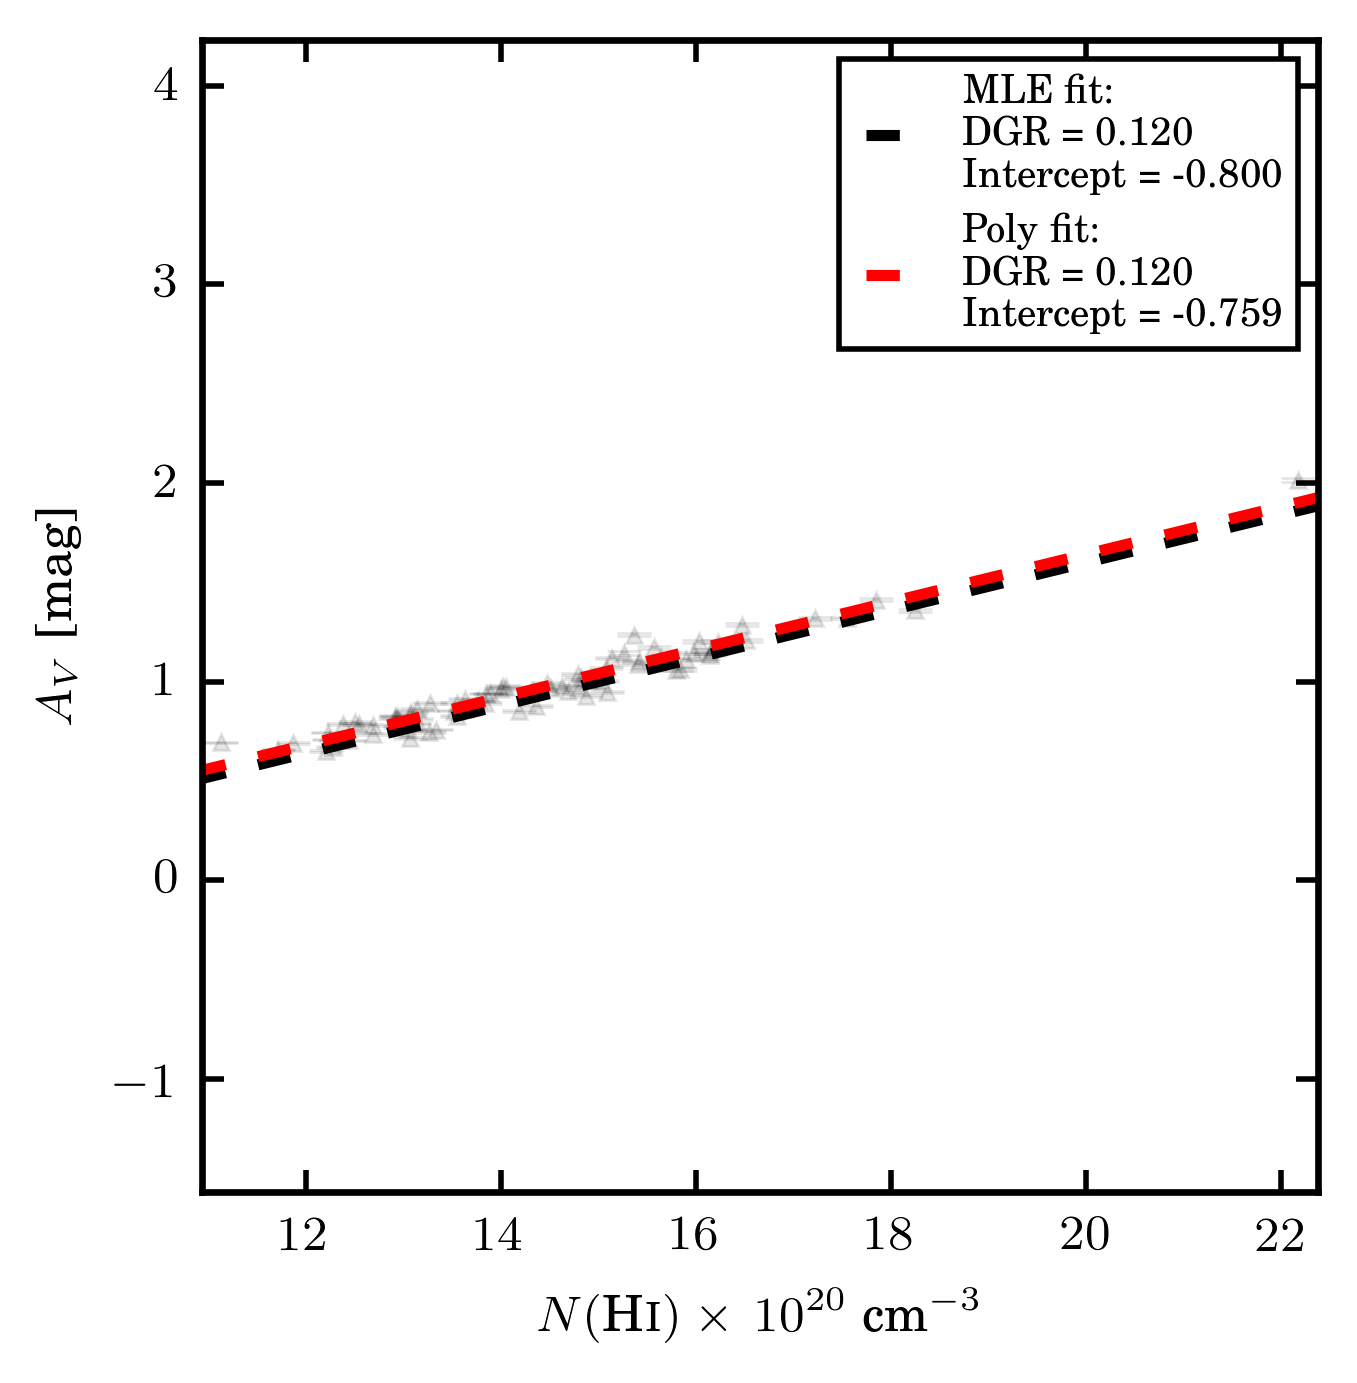
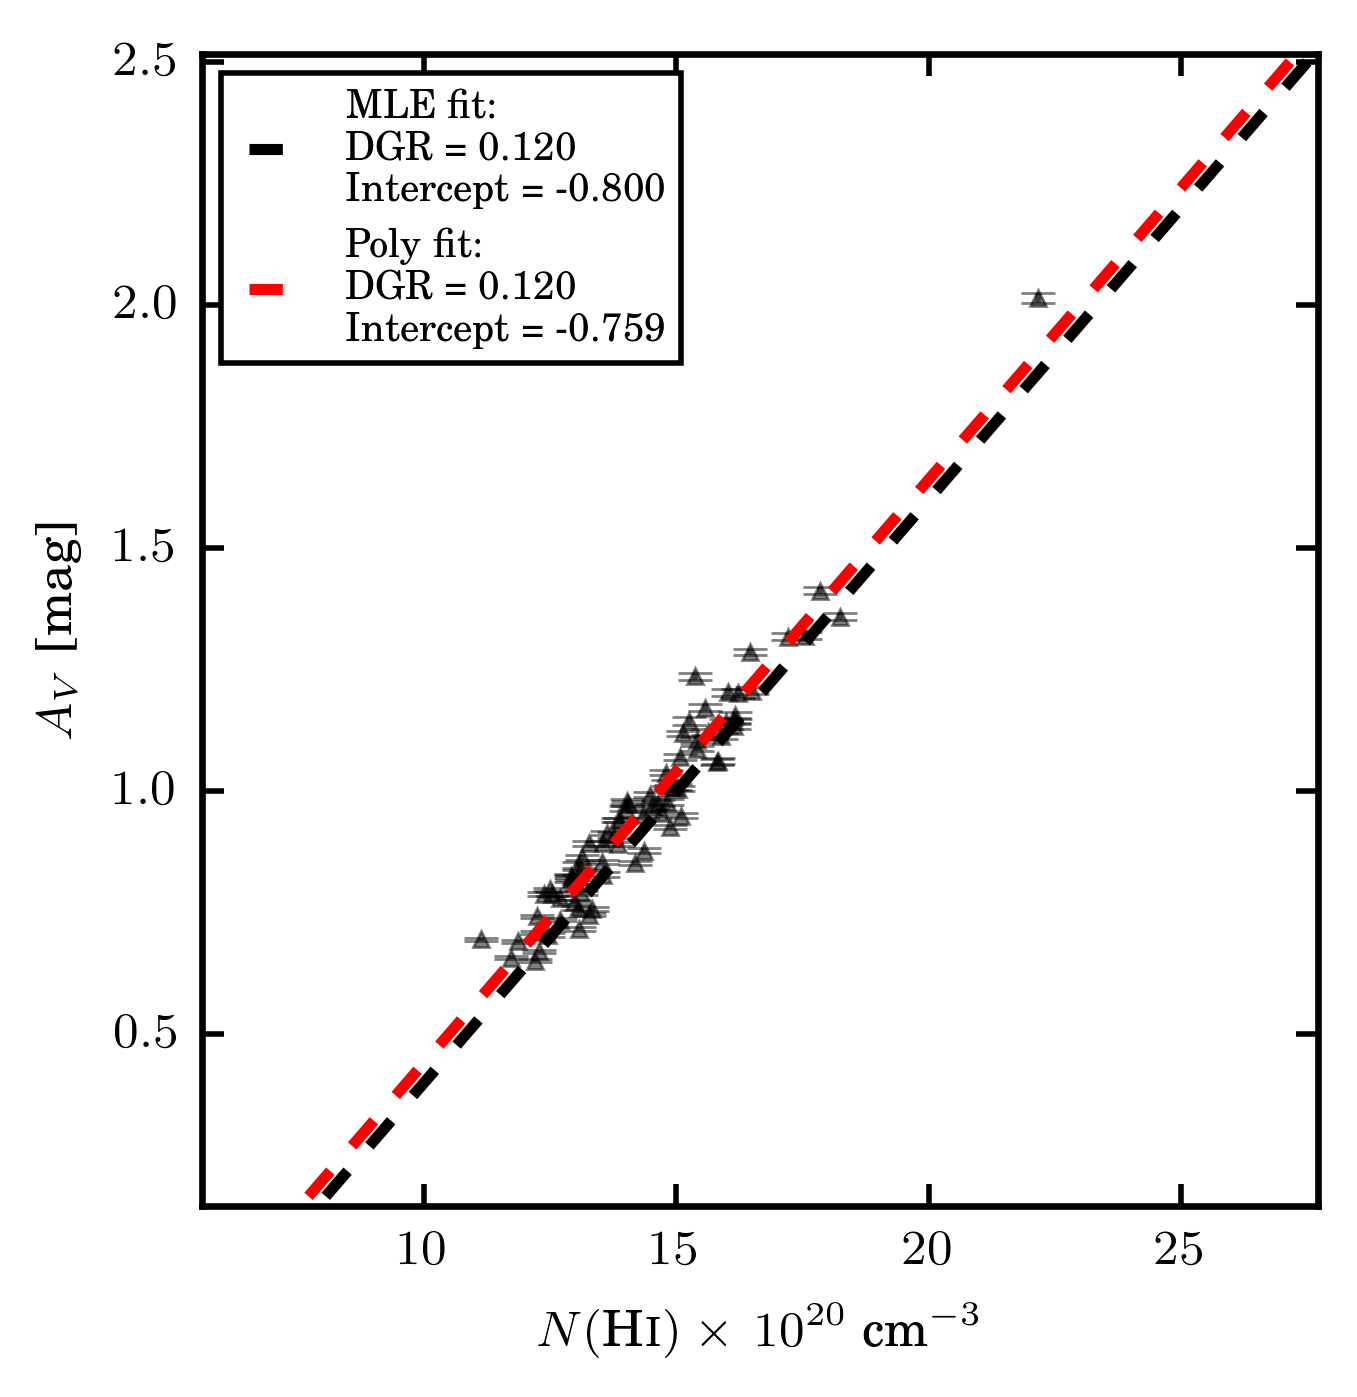
completed best post ever

diff --git a/images/2015-07-22/image_copy.py b/images/2015-07-22/image_copy.py
@@ -1,0 +1,24 @@
+#!/usr/bin/python
+
+import os
+
+images = [
+'/d/bip3/ezbc/taurus/figures/likelihood/taurus_planck_binned_coarseres_likelihood_w*',
+'/d/bip3/ezbc/taurus/figures/diagnostics/taurus_planck_binned_coarseres_av_vs_nhi*',
+'/d/bip3/ezbc/taurus/figures/diagnostics/taurus_planck_binned_coarseres_nh2_vs_nhi*',
+'/d/bip3/ezbc/perseus/figures/likelihood/perseus_planck_binned_coarseres_likelihood_w*',
+'/d/bip3/ezbc/perseus/figures/diagnostics/perseus_planck_binned_coarseres_av_vs_nhi*',
+'/d/bip3/ezbc/perseus/figures/diagnostics/perseus_planck_binned_coarseres_nh2_vs_nhi*',
+'/d/bip3/ezbc/perseus/figures/likelihood/perseus_lee12_binned_coarseres_likelihood_w*',
+'/d/bip3/ezbc/perseus/figures/diagnostics/perseus_lee12_binned_coarseres_av_vs_nhi*',
+'/d/bip3/ezbc/perseus/figures/diagnostics/perseus_lee12_binned_coarseres_nh2_vs_nhi*',
+'/d/bip3/ezbc/california/figures/likelihood/california_planck_binned_coarseres_likelihood_w*',
+'/d/bip3/ezbc/california/figures/diagnostics/california_planck_binned_coarseres_av_vs_nhi*',
+'/d/bip3/ezbc/california/figures/diagnostics/california_planck_binned_coarseres_nh2_vs_nhi*',
+        ]
+
+dest_dir = './'
+
+for image in images:
+    os.system('cp ' + image + ' ' + dest_dir)
+

diff --git a/_posts/2015-07-22-MLE-Testing.md b/_posts/2015-07-22-MLE-Testing.md
@@ -1,12 +1,90 @@
 ---
 layout: post
-title: Rescaling Variance of Binned Data
+title: Reevaluating the MLE, and Negative Intercepts
 author:
 category: research
 tags: Taurus-California-Perseus Residuals Masking
 comments: true
 use_math: true
 ---
+
+## Likelihoods
+
+The likelihood calculations discussed in the [previous
+post](/2015/07/21/Masking/) are incorrect. There was a bug related to masking
+NaNs in the HI cube. All figures below were calculated using these versions of
+[``cloud_analysis.py``](https://bitbucket.org/ezbc/scripts_and_logs/src/f7ec232922b90feee58d941b3959d32d1d7e6683/multicloud/analysis/clouds/cloud_analysis.py?at=master)
+and
+[``cloudpy.py``](https://bitbucket.org/ezbc/python_modules/src/4122edf55decca4a91abac1cce6a27e45e005268/cloudpy.py?at=master).
+
+The likelihoods do indeed require a rescaling of the error after the first MLE
+calculation, and recalculating the MLE with the rescaled errors. Below are the
+results.
+
+***
+
+<div align="center"> Perseus, Lee+12 </div>
+
+<img src="/images/2015-07-22/perseus_lee12_binned_coarseres_likelihood_wd.png" style="float: left; width: 48%; margin-right: 1%; margin-bottom: 0.5em;"/>
+
+<img src="/images/2015-07-22/perseus_lee12_binned_coarseres_likelihood_wi.png" style="float: left; width: 48%; margin-right: 1%; margin-bottom: 0.5em;"/>
+
+Figure 1. - Perseus likelihoods with Lee+12 $$A_V$$ data. These likelihoods are
+not similar to those found in [previous
+iterations](/2015/07/07/Lee12-Test/#nobackground) of the MLE analysis. The
+width is much larger, and the intercept is near 0. The $$HI$$ column densities
+will be much more similar to Lee et al. (2012) for a width of 40 km/s than
+found earlier, about 13 km/s. The bulk of the $$HI$$ emission is included
+within a width of 20 km/s, thus increasing the width to 40 km/s will not change
+$$N(HI)$$ much. The $$N(HI)$$ distributions are discussed later in the post
+
+***
+
+
+***
+
+<div align="center"> Perseus, Planck </div>
+
+<img src="/images/2015-07-22/perseus_planck_binned_coarseres_likelihood_wd.png" style="float: left; width: 48%; margin-right: 1%; margin-bottom: 0.5em;"/>
+
+<img src="/images/2015-07-22/perseus_planck_binned_coarseres_likelihood_wi.png" style="float: left; width: 49%; margin-right: 1%; margin-bottom: 0.5em;"/>
+
+Figure 2. - Perseus likelihoods with Planck $$A_V$$ data. These likelihoods are
+very similar to those found with the Lee+12 $$A_V$$ data above. This is
+promising!
+
+***
+
+***
+
+<div align="center"> Taurus </div>
+
+<img src="/images/2015-07-22/taurus_planck_binned_coarseres_likelihood_wd.png" style="float: left; width: 48%; margin-right: 1%; margin-bottom: 0.5em;"/>
+
+<img src="/images/2015-07-22/taurus_planck_binned_coarseres_likelihood_wi.png" style="float: left; width: 48%; margin-right: 1%; margin-bottom: 0.5em;"/>
+
+Figure 3. - Taurus likelihoods. These likelihoods are not similar to those
+found in previous iterations of the MLE analysis, which found $$HI$$ widths of
+about 10 km/s. This is likely because there were many NaNs in the $$HI$$ cube
+which distorted the likelihood calculation.
+
+***
+
+
+***
+
+<div align="center"> California </div>
+
+<img src="/images/2015-07-22/california_planck_binned_coarseres_likelihood_wd.png" style="float: left; width: 48%; margin-right: 1%; margin-bottom: 0.5em;"/>
+
+<img src="/images/2015-07-22/california_planck_binned_coarseres_likelihood_wi.png" style="float: left; width: 49%; margin-right: 1%; margin-bottom: 0.5em;"/>
+
+Figure 4. - California likelihoods. These likelihoods are similar to those
+found in [previous iterations](/2015/05/30/Intercepts/) of the MLE analysis.
+This means that using either the faint-end or bright-end residual masking
+selects the same diffuse pixels for the MLE analysis.
+
+***
 
 ## Evaluating MLE Fits
 
@@ -15,50 +93,68 @@ fitted relationship. I have included the MLE fit as well as a polynomial fit to
 the data. We can see for cloud the masking process has successfully masked
 outliers which do not follow a linear correlation between $$A_V$$ and
 $$N(HI)$$. That is, for the masked data, $$A_V$$ is linearly dependent on
-$$N(HI)$$.
+$$N(HI)$$. See [yesterday's post](/2015/07/21/Masking/) for the first failed
+attempt at examining this relationship (the MLE relationship I was plotting
+incorrectly loaded the MLE parameters, hence were wrong).
+
+If we compare the masked, binned data to the entire unbinned dataset we confirm
+once again that the masking is working correctly. If all pixels were included,
+or some $$A_V$$ cutoff, the relationship would be skewed to a lower DGR and
+higher intercept, e.g. if in Figure 5, we masked pixels where $$A_V > 1$$ mag,
+then more pixels would populate the lower $$N(HI)$$.
 
 ***
 
-<img src="/images/2015-07-22/perseus_planck_binned_coarseres_av_vs_nhi_masked.png" style="width:70%;"/>
-
-<img src="/images/2015-07-22/perseus_planck_binned_coarseres_av_vs_nhi.png" style="width:70%"/>
-
-Figure 1. - Perseus $$A_V$$ vs. $$N(HI)$$ using Planck data. The top shows the
-data points which the MLE of the parameters were fitted to, i.e., the masked
-data and corresponding fit. The bottom shows all the data. Each plot shows the
-model line determined by the MLE method, as well as a polynomial fit to the
-data.
-
-***
-
-***
+<div align="center"> Perseus, Lee+12 </div>
 
 <img src="/images/2015-07-22/perseus_lee12_binned_coarseres_av_vs_nhi_masked.png" style="width:70%;"/>
 
 <img src="/images/2015-07-22/perseus_lee12_binned_coarseres_av_vs_nhi.png" style="width:70%"/>
 
-Figure 2. - Perseus $$A_V$$ vs. $$N(HI)$$ using Lee+12 data.
+Figure 5. - Perseus $$A_V$$ vs. $$N(HI)$$ using Lee+12 data. The top shows the
+data points which the MLE of the parameters were fitted to, i.e., the masked
+data and corresponding fit. The bottom shows all the unbinned data. The
+contours are increasing logarithmically, with about 10,000 points included.
+Each plot shows the model line determined by the MLE method, as well as a
+polynomial fit to the data.
+
+***
+
+***
+
+<div align="center"> Perseus, Planck </div>
+
+<img src="/images/2015-07-22/perseus_planck_binned_coarseres_av_vs_nhi_masked.png" style="width:70%;"/>
+
+<img src="/images/2015-07-22/perseus_planck_binned_coarseres_av_vs_nhi.png" style="width:70%"/>
+
+Figure 6. - Perseus $$A_V$$ vs. $$N(HI)$$ using Planck data.
+
 ***
 
 
+
 ***
+
+<div align="center"> Taurus </div>
 
 <img src="/images/2015-07-22/taurus_planck_binned_coarseres_av_vs_nhi_masked.png" style="width:70%"/>
 
 <img src="/images/2015-07-22/taurus_planck_binned_coarseres_av_vs_nhi.png" style="width:70%"/>
 
-Figure 3. - Taurus $$A_V$$ vs. $$N(HI)$$.
+Figure 7. - Taurus $$A_V$$ vs. $$N(HI)$$.
 
 ***
 
 ***
+
+<div align="center"> California </div>
 
 <img src="/images/2015-07-22/california_planck_binned_coarseres_av_vs_nhi_masked.png" style="width:70%"/>
 
 <img src="/images/2015-07-22/california_planck_binned_coarseres_av_vs_nhi.png" style="width:70%"/>
 
-Figure 3. - California $$A_V$$ vs. $$N(HI)$$. The MLE fit is so far off that it
-doesn't show.
+Figure 8. - California $$A_V$$ vs. $$N(HI)$$. 
 
 ***
 
@@ -66,16 +162,22 @@ doesn't show.
 ## Understanding the Intercept
 
 A negative intercept means that there is excess $$N(HI)$$ emission, or rather
-background $$HI$$. 
+background $$HI$$. In California, there is even a $$A_V$$ background (see
+[here](/2015/06/24/Intercepts/)) of about $$0.9$$ mag. A negative intercept of
+$$-0.8$$ means that there is about $$1.7$$ mag of $$A_V$$ associated with an
+$$HI$$ background. Given the DGR in California is $$0.12 \times 10^{-20}$$
+cm$$^{-2}$$ mag, the background $$N(HI)$$ is about $$14 \times 10^{20}$$
+cm$$^{-2}$$.
+
+$$N(H_2)$$ vs. $$N(HI)$$ distributions of each cloud. Even with the negative
+intercept in California, most of the $$N(H_2)$$ is above 0. This should relieve
+the problem discussed in [post on negative $$H_2$$ surface
+densities](/2015/02/26/Krumholz-Fitting/).
 
 ***
 
 <div align="center">
-
-  <p>California</p>
-
-  <img src="/images/2015-07-22/california_planck_binned_coarseres_nh2_vs_nhi.png" style="width:70%"/>
-
+  
   <p>Perseus</p>
 
   <img src="/images/2015-07-22/perseus_planck_binned_coarseres_nh2_vs_nhi.png" style="width:70%"/>
@@ -84,12 +186,22 @@ background $$HI$$.
 
   <img src="/images/2015-07-22/taurus_planck_binned_coarseres_nh2_vs_nhi.png" style="width:70%"/>
 
+  <p>California</p>
+
+  <img src="/images/2015-07-22/california_planck_binned_coarseres_nh2_vs_nhi.png" style="width:70%"/>
+
 </div>
 
-$$N(H_2)$$ vs. $$N(HI)$$ distributions of each cloud. Even with the negative
-intercept in California, most of the $$N(H_2)$$ is above 0.  
+Figure 9. - Perseus, Taurus, and California $$N(H_2)$$ vs. $$N(HI)$$
+distributions derived from Planck data. It is apparent that California and
+Taurus have a much wider distribution of $$N(HI)$$ thresholds corresponding to
+large hikes in $$N(H2)$$.
 
 ***
+
+
+
+
 
 
 

diff --git a/_posts/2015-07-07-Lee12-Test.md b/_posts/2015-07-07-Lee12-Test.md
@@ -24,7 +24,7 @@ however this run did not allow for an intercept to vary. I am currently running
 the analysis allowing the intercept to vary to make a fair comparison with the
 subsequent tests.
 
-## No background subtraction
+## <a name="nobackground"></a>No background subtraction
 
 ### Varying intercept
 
